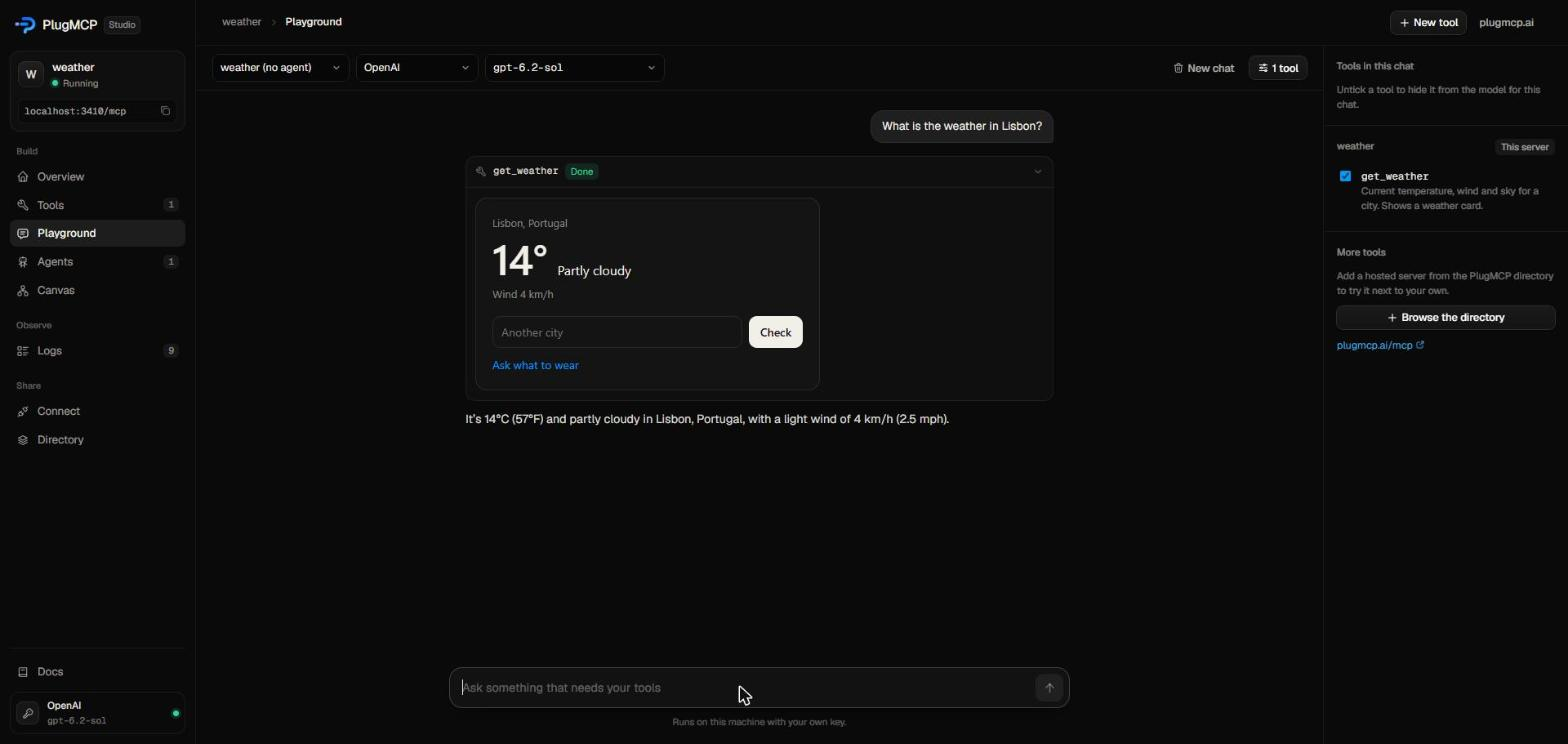
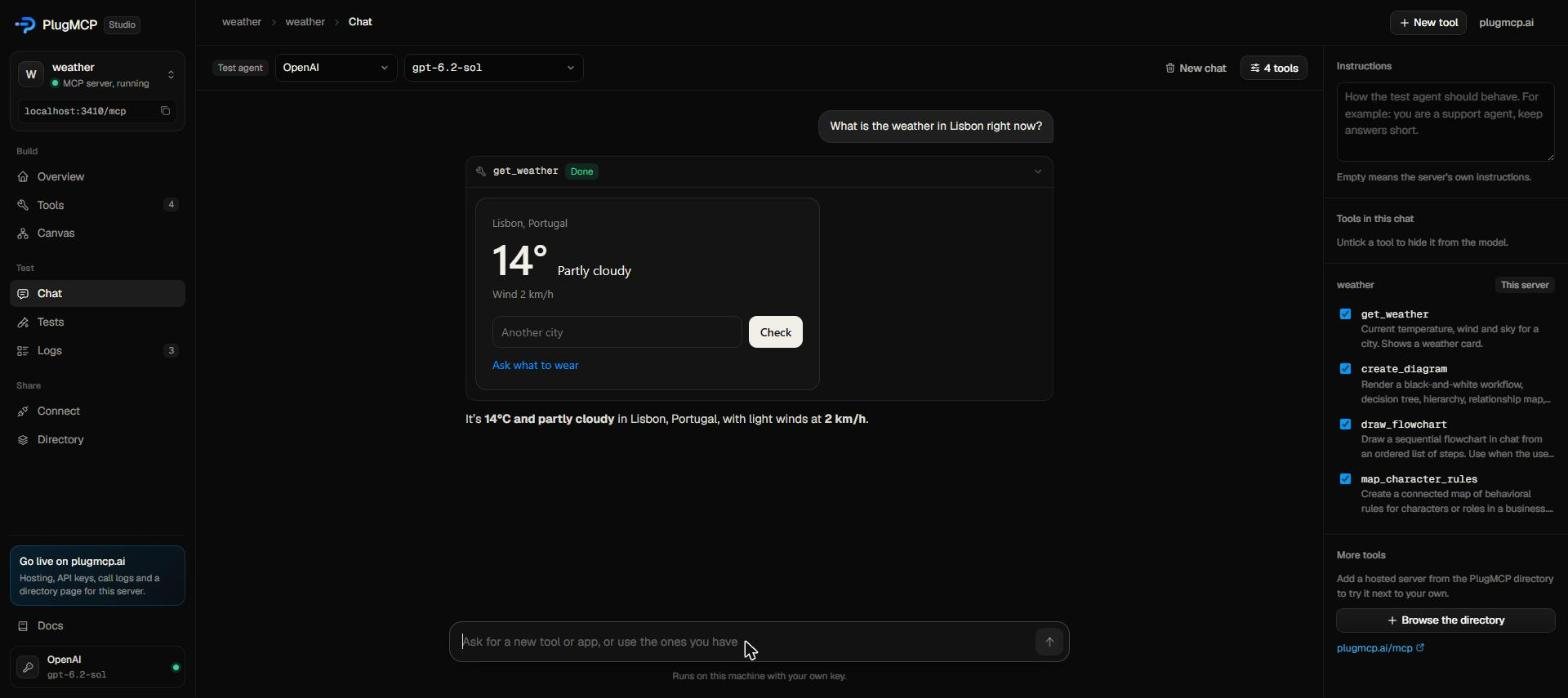
Describe tests and in-place editing, refresh screenshots and package keywords.

diff --git a/README.md b/README.md
@@ -1,6 +1,6 @@
 # PlugMCP: the framework for building MCP servers and MCP apps
 
-**Build MCP servers and MCP apps in TypeScript. Write a tool or ask the built-in chat to write it, see every server and tool on a canvas, test with your own model key, and ship. Open source, local, no account.**
+**Build, test and ship MCP servers and MCP apps in TypeScript. Write a tool or ask the built-in chat to write it, see every server and tool on a canvas, edit schemas in place, save tests, and chat with your own model key. Open source, local, no account.**
 
 [![npm](https://img.shields.io/npm/v/plugmcp?color=0099FF)](https://www.npmjs.com/package/plugmcp)
 [![license](https://img.shields.io/badge/license-MIT-0099FF)](LICENSE)
@@ -28,8 +28,9 @@ npm run dev
 2. **Open the Studio.** `npm run dev` runs your servers and opens the Studio at `http://localhost:3333`.
 3. **Add your model key.** Open **Chat**, pick a provider (OpenAI, Anthropic, Google, OpenRouter, Ollama or any OpenAI-compatible endpoint) and paste your key. It is saved on your machine and sent only to that provider.
 4. **Build.** Ask the chat for a tool or an MCP app and it writes the code into your project and runs it. Or press **New tool**, or write `server.tool(...)` yourself.
-5. **See it.** The **Canvas** draws the MCP server with its tools under it. Click a tool for its schema, a form to run it, and its code.
-6. **Connect and ship.** **Connect** gives install buttons for Cursor, VS Code, Claude Code and Codex. `plugmcp build` makes a plain Node server you can host anywhere, and [plugmcp.ai](https://plugmcp.ai) lists and hosts it.
+5. **See it and change it.** The **Canvas** draws the MCP server with its tools under it. Click the server to edit its name and description. Click a tool for its schema, with an Edit link on every description, a form to run it, and its code.
+6. **Test it.** Run a tool with real input and press **Save as test**. The **Tests** page runs every saved test, and `plugmcp test` does the same in a terminal or in CI.
+7. **Connect and ship.** **Connect** gives install buttons for Cursor, VS Code, Claude Code and Codex. `plugmcp build` makes a plain Node server you can host anywhere, and [plugmcp.ai](https://plugmcp.ai) lists and hosts it.
 
 ![The canvas: an MCP server with its tools under it](docs/studio-canvas.jpg)
 
@@ -39,7 +40,8 @@ npm run dev
 - **Several MCP servers in one project.** Start another from the Studio. Each has its own tools, its own canvas and its own address.
 - **A chat that builds.** Say what you want. Your own model writes the tool and its view into your project, runs it and shows the result. Code that does not load is never kept.
 - **A canvas for every server.** The server on top, its tools under it, each with its description and inputs. Drag the cards where you want them.
-- **Schema first.** Every tool opens on what a model sees: each input, its type, whether it is required and what it means. A form to run it sits beside it.
+- **Schema first, editable in place.** Every tool opens on what a model sees: each input, its type, whether it is required and what it means. Change any description, or the server's own name and description, without opening the code. A form to run the tool sits beside it.
+- **Tests you keep.** Save any run as a test, say what the result must contain, and run them all after every change, in the Studio or with `plugmcp test` in CI.
 - **Your own key, kept local.** The key stays in a local file and goes only to the provider you chose. It never reaches the browser or us. No telemetry.
 - **A directory built in.** Try popular servers from [plugmcp.ai](https://plugmcp.ai/mcp) next to your own, and search 95,000+ before you build a duplicate.
 - **Works in agents.** The same tools run in-process in the Claude Agent SDK with one line, and over HTTP or stdio in anything else.
@@ -111,9 +113,10 @@ That is the whole integration. The SDK bundles the view into one self-contained 
 | Page | What it does |
 |---|---|
 | **Overview** | Every MCP server in the folder as a card, with **New MCP server** to start another. Below it, the open server at a glance: tools, views, calls and what to do next. |
-| **Tools** | Every tool, schema first: each input with its type and description. A form beside it runs the tool and shows the result and the view. Edit the description, the tool code and the view code in place. **New tool** writes one from a description, or adds a blank one. |
+| **Tools** | Every tool, schema first: each input with its type and description, each with an Edit link. A form beside it runs the tool and shows the result and the view. Save a run as a test. Edit the tool code and the view code in place. **New tool** writes one from a description, or adds a blank one. |
 | **Chat** | One test agent for the open server, on your own model key. Ask for a tool or an MCP app and it is written into your project and run in the chat. Tool calls and views appear inline, as they would in a chat client. Set its instructions, switch models, turn tools on and off. |
-| **Canvas** | One canvas for each MCP server: the server on top, its tools under it, every tool with its description and inputs. Drag cards where you want them. Click a tool to see its schema, run it and change its code beside the canvas. |
+| **Canvas** | One canvas for each MCP server: the server on top, its tools under it, every tool with its description and inputs. Drag cards where you want them. Click the server to edit its name and description. Click a tool to edit its schema, run it and change its code beside the canvas. |
+| **Tests** | Every saved test of the server, grouped by tool, with one button to run them all and the reason for each failure. |
 | **Logs** | Every tool call the dev server handled, from the Studio, your editor or any other client, with input, result and time. The last 300 are kept across restarts. |
 | **Connect** | Install buttons for Cursor and VS Code, commands for Claude Code and Codex, and the steps to go live. |
 | **Directory** | Popular servers from [plugmcp.ai](https://plugmcp.ai/mcp) and a search. Add a hosted one to your chat, or open the full directory on plugmcp.ai. |
@@ -147,6 +150,7 @@ No server to start and no network hop. Scaffold a working example with `npx crea
 | `plugmcp dev` | Run every MCP server in the folder and the Studio. Reloads on save. |
 | `plugmcp build` | Bundle the server and its views into `dist/`. |
 | `plugmcp start` | Serve the build over Streamable HTTP at `/mcp`. Add `--stdio` for stdio. Reads `PORT`. |
+| `plugmcp test` | Run the tests saved in the Studio against your code. Exits with 1 when one fails, so it fits CI. |
 | `plugmcp search <words>` | Search the PlugMCP directory. |
 | `plugmcp add <slug>` | Add a directory server to this project's Studio chat. |
 | `plugmcp list` | Give your server a page in the directory. |
@@ -168,6 +172,8 @@ When it has a public address, [plugmcp.ai](https://plugmcp.ai) adds what a produ
 
 - **A directory page** with install buttons for every client, so people and agents can find it: `plugmcp list --url https://your-host.example/mcp`
 - **A gateway address, API keys you can revoke, a log of every call, and alerts** when it breaks: `plugmcp deploy --url https://your-host.example/mcp`
+- **Toolkits**: one link that combines several servers, so an agent installs them all at once.
+- **No code at all**, if you prefer: plugmcp.ai also builds and hosts MCP servers from a form and a visual canvas. See [plugmcp.ai](https://plugmcp.ai).
 
 Every server also answers a browser at its own `/mcp` address with a page listing its tools and how to connect.
 
@@ -192,6 +198,20 @@ Other good frameworks exist, and you should pick the one that fits.
 - The official [MCP TypeScript SDK](https://github.com/modelcontextprotocol/typescript-sdk) and [ext-apps](https://github.com/modelcontextprotocol/ext-apps) are what this SDK is built on. Use them directly when you want full control.
 
 PlugMCP aims to be the smallest path from an idea to an MCP server or MCP app that you can see, test and talk to on your own machine, with a public directory attached.
+
+## Questions
+
+**What is an MCP server?** A program that gives an AI model tools to call, over the [Model Context Protocol](https://modelcontextprotocol.io). Claude, ChatGPT, Cursor, VS Code and most agent frameworks can connect to one.
+
+**What is an MCP app?** A tool that also returns a small interactive page, shown inside the chat. In PlugMCP it is a tool plus one React file in `views/`.
+
+**How do I test an MCP server locally?** `npm run dev` opens the Studio. Run any tool with a form, chat with the server using your own model key, save runs as tests, and run them with `plugmcp test`.
+
+**Does it work with Claude, ChatGPT and Cursor?** Yes. The server speaks standard MCP over Streamable HTTP and stdio, and views follow the MCP Apps standard. The **Connect** page has the install steps for each client.
+
+**Do I need an account or a PlugMCP key?** No. Everything runs on your machine. A model key is only needed for the chat, and it is your own.
+
+**Where can I find existing MCP servers?** The [PlugMCP directory](https://plugmcp.ai/mcp) lists 95,000+, searchable from the Studio and with `plugmcp search`.
 
 ## Requirements
 
